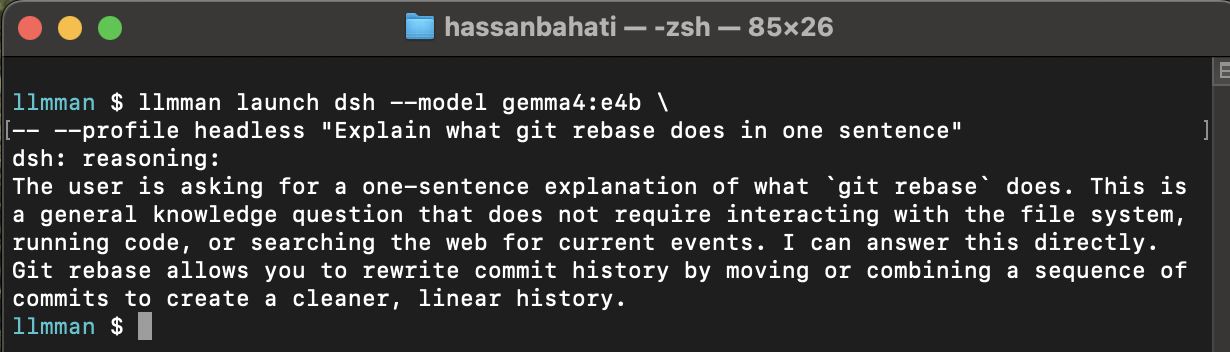
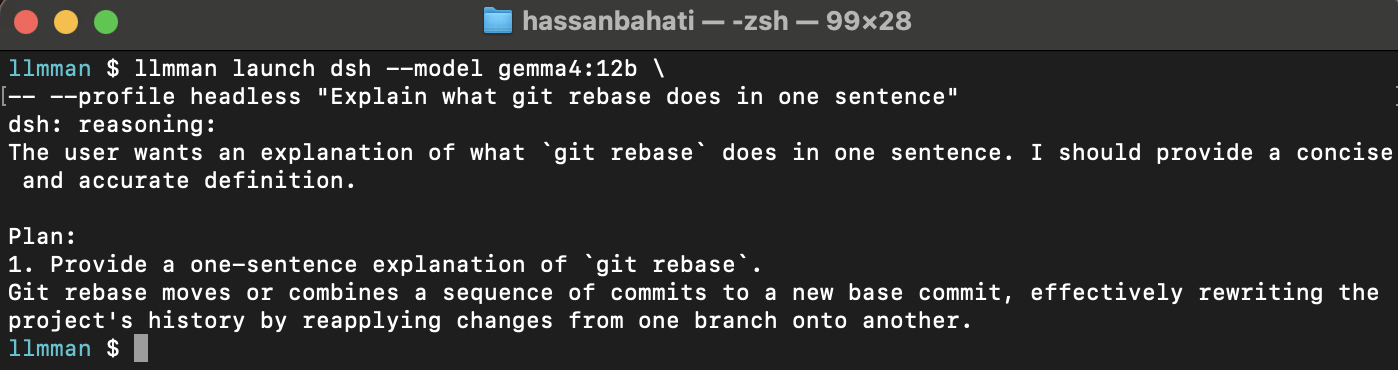
chore: change model to gemma4:12b

Changed region(s): [[0.0, 0.0, 1.0, 1.0]]

diff --git a/content/blog/launch-dsh/index.md b/content/blog/launch-dsh/index.md
@@ -62,10 +62,10 @@ Launch DeepSeek Harness with llmman and you get the following out of the box:
 ## The setup
 
 ```sh
-llmman launch dsh --model <model-name>    # eg. gemma4:e4b
+llmman launch dsh --model <model-name>    # eg. gemma4:12b
 ```
 
-One command does four things: it starts `llmman serve` if there isnt a running server, pulls the model and loads it, writes the configuration `dsh` expects, and hands over to dsh's `web` profile. Short names work here the way they do everywhere else in `llmman`, so `gemma4:e4b` resolves to `docker.io/ai/gemma4:e4b`.
+One command does four things: it starts `llmman serve` if there isnt a running server, pulls the model and loads it, writes the configuration `dsh` expects, and hands over to dsh's `web` profile. Short names work here the way they do everywhere else in `llmman`, so `gemma4:12b` resolves to `docker.io/ai/gemma4:12b`.
 
 You do not need `dsh` installed for this. When it isn't on your `PATH`, llmman sets it up with `npx` instead, and says so before it starts downloading anything.
 
@@ -77,15 +77,15 @@ When you run `llmman launch dsh --model <model-name>`, dsh's `web` profile boots
 browser, pass dsh's headless profile instead. Everything after `--` goes to dsh's own CLI:
 
 ```sh
-llmman launch dsh --model gemma4:e4b \
+llmman launch dsh --model gemma4:12b \
 -- --profile headless "Explain what git rebase does in one sentence"
 ```
 
 `llmman` defaults to a `web` profile. Providing `--profile headless` overrides the default profile and uses the `headless` profile.
 
 <img src="headless-run.png"
-     alt="dsh's headless profile answering a question about git rebase from gemma4:e4b, run through llmman"
-     width="1230" height="352" loading="lazy">
+     alt="dsh's headless profile answering a question about git rebase from gemma4:12b, run through llmman"
+     width="1398" height="370" loading="lazy">
 
 
 ## What llmman configures for you
@@ -95,7 +95,7 @@ When you launch `dsh` with `llmman`, `llmman` sets up two files under `~/.config
 ```yaml
 agent-default-model:
   provider: llmman
-  model: "docker.io/ai/gemma4:e4b"
+  model: "docker.io/ai/gemma4:12b"
 llm-pi-ai:
   providers:
     llmman:
@@ -104,8 +104,8 @@ llm-pi-ai:
       api: openai-completions
       baseURL: "http://127.0.0.1:17434/v1"
       models:
-        - id: "docker.io/ai/gemma4:e4b"
-          name: "docker.io/ai/gemma4:e4b"
+        - id: "docker.io/ai/gemma4:12b"
+          name: "docker.io/ai/gemma4:12b"
           input: [text, image]
 ```
 
@@ -165,7 +165,7 @@ Servers on your own network often need no key. If yours does, set `providers.loc
 You don't have to choose one or the other for a whole session. With `--overflow-provider` and `--overflow-model`, dsh gets a local model and a hosted one behind it:
 
 ```sh
-llmman launch dsh --model gemma4:e4b \
+llmman launch dsh --model gemma4:12b \
   --overflow-provider anthropic --overflow-model claude-sonnet-5
 ```
 
